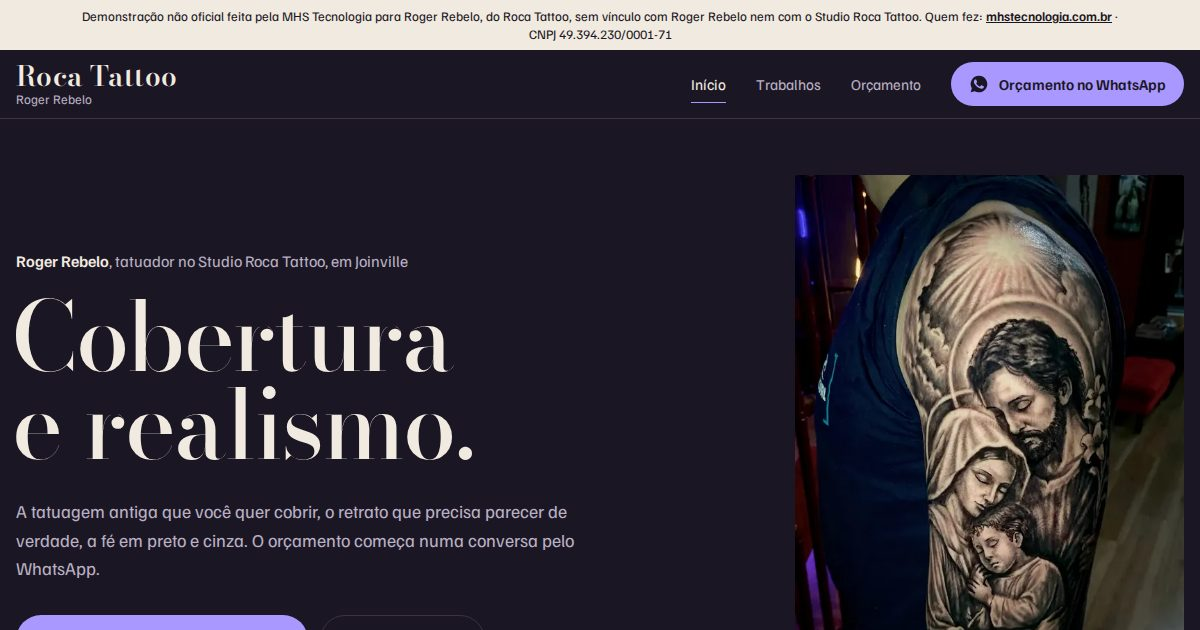
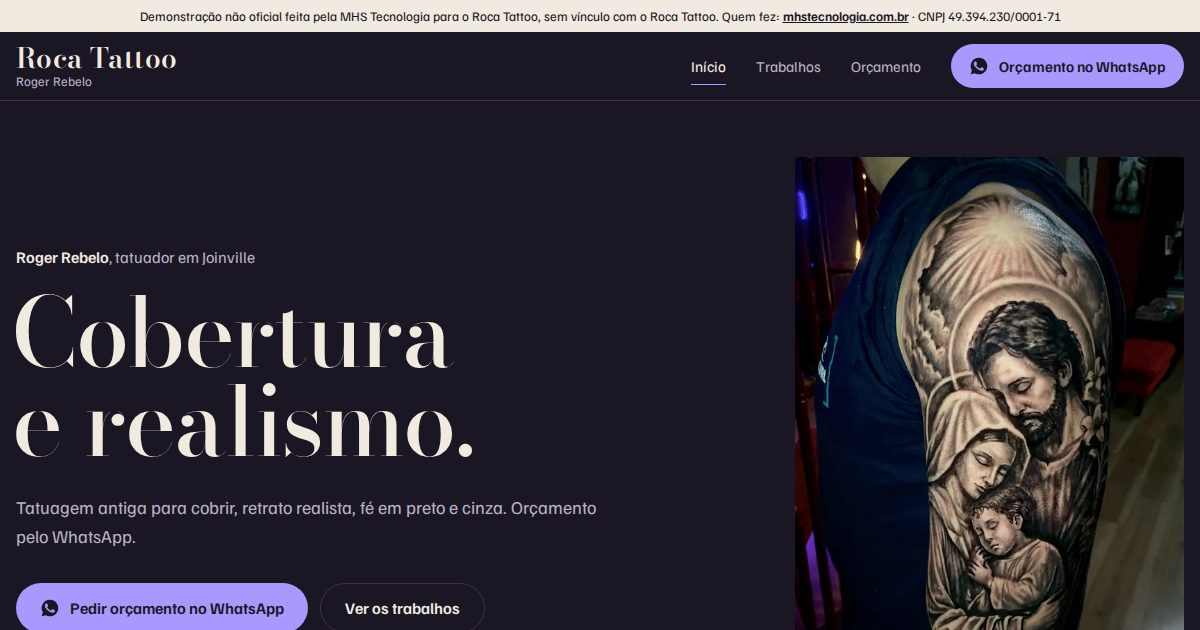
Previews: 108 ativos

diff --git a/roca-tattoo-joinville-sc/trabalhos.html b/roca-tattoo-joinville-sc/trabalhos.html
@@ -13,7 +13,7 @@
 </head>
 <body>
 <a class="salto" href="#conteudo">Pular para o conteúdo</a>
-<div class="aviso" role="note">Demonstração não oficial feita pela MHS Tecnologia para Roger Rebelo, do Roca Tattoo, sem vínculo com Roger Rebelo nem com o Studio Roca Tattoo. Quem fez: <a href="https://mhstecnologia.com.br/pt">mhstecnologia.com.br</a> · <span class="nq">CNPJ 49.394.230/0001-71</span></div>
+<div class="aviso" role="note">Demonstração não oficial feita pela MHS Tecnologia para o Roca Tattoo, sem vínculo com o Roca Tattoo. Quem fez: <a href="https://mhstecnologia.com.br/pt">mhstecnologia.com.br</a> · <span class="nq">CNPJ 49.394.230/0001-71</span></div>
 <header class="topo">
   <div class="caixa nav">
     <a class="marca" href="index.html"><b>Roca Tattoo</b><span>Roger Rebelo</span></a>
@@ -27,24 +27,24 @@
 <section class="topo-pag">
   <div class="caixa">
     <h1>Trabalhos</h1>
-    <p>Tatuagens recentes do Roger, do realismo em preto e cinza às cores e ao traço fino. Toque numa foto para ver maior.</p>
+    <p>Tatuagens recentes do Roger, do realismo em preto e cinza às mandalas e ao traço fino. Toque numa foto para ver maior.</p>
   </div>
 </section>
 <section aria-label="Fotos dos trabalhos">
   <div class="caixa galeria">
-    <button class="foto" type="button" data-grande="img/sagrada-1400.webp" data-legenda="Sagrada Família. Realismo em preto e cinza, braço."><img src="img/sagrada-1000.webp" srcset="img/sagrada-600.webp 600w, img/sagrada-1000.webp 1000w, img/sagrada-1400.webp 1400w" sizes="(min-width: 1240px) 600px, (min-width: 900px) 48vw, calc(100vw - 32px)" width="600" height="800" alt="Tatuagem realista em preto e cinza da Sagrada Família no braço" loading="lazy" decoding="async"><span class="leg"><b>Sagrada Família</b><span>Realismo em preto e cinza, braço</span></span></button>
-    <button class="foto" type="button" data-grande="img/sao-miguel-1400.webp" data-legenda="Anjo e catedral. Realismo em preto e cinza, antebraço fechado."><img src="img/sao-miguel-1000.webp" srcset="img/sao-miguel-600.webp 600w, img/sao-miguel-1000.webp 1000w, img/sao-miguel-1400.webp 1400w" sizes="(min-width: 1240px) 600px, (min-width: 900px) 48vw, calc(100vw - 32px)" width="600" height="800" alt="Antebraço fechado com anjo, vitral de catedral e cruz em preto e cinza" loading="lazy" decoding="async"><span class="leg"><b>Anjo e catedral</b><span>Realismo em preto e cinza, antebraço fechado</span></span></button>
-    <button class="foto" type="button" data-grande="img/formula-1400.webp" data-legenda="Fórmula 1 ao pôr do sol. Realismo colorido, panturrilha."><img src="img/formula-1000.webp" srcset="img/formula-600.webp 600w, img/formula-1000.webp 1000w, img/formula-1400.webp 1400w" sizes="(min-width: 1240px) 600px, (min-width: 900px) 48vw, calc(100vw - 32px)" width="600" height="800" alt="Tatuagem colorida de um carro de Fórmula 1 vermelho sob um céu laranja e roxo" loading="lazy" decoding="async"><span class="leg"><b>Fórmula 1 ao pôr do sol</b><span>Realismo colorido, panturrilha</span></span></button>
-    <button class="foto" type="button" data-grande="img/mandala-1400.webp" data-legenda="Mandalas. Pontilhismo e geometria, braço e ombro."><img src="img/mandala-1000.webp" srcset="img/mandala-600.webp 600w, img/mandala-1000.webp 1000w, img/mandala-1400.webp 1400w" sizes="(min-width: 1240px) 600px, (min-width: 900px) 48vw, calc(100vw - 32px)" width="600" height="800" alt="Braço e ombro com mandalas e padrões geométricos em pontilhismo" loading="lazy" decoding="async"><span class="leg"><b>Mandalas</b><span>Pontilhismo e geometria, braço e ombro</span></span></button>
-    <button class="foto" type="button" data-grande="img/delicada-1400.webp" data-legenda="Medalha e santa. Traço fino, antebraço."><img src="img/delicada-1000.webp" srcset="img/delicada-600.webp 600w, img/delicada-1000.webp 1000w, img/delicada-1400.webp 1400w" sizes="(min-width: 1240px) 600px, (min-width: 900px) 48vw, calc(100vw - 32px)" width="600" height="800" alt="Tatuagem em traço fino com medalha de São Bento, santa e flores no antebraço" loading="lazy" decoding="async"><span class="leg"><b>Medalha e santa</b><span>Traço fino, antebraço</span></span></button>
-    <button class="foto" type="button" data-grande="img/decalque-1400.webp" data-legenda="Retrato de cachorro. O decalque na pele, ao lado do desenho."><img src="img/decalque-1000.webp" srcset="img/decalque-600.webp 600w, img/decalque-1000.webp 1000w, img/decalque-1400.webp 1400w" sizes="(min-width: 1240px) 600px, (min-width: 900px) 48vw, calc(100vw - 32px)" width="600" height="800" alt="Decalque roxo de um retrato de cachorro no antebraço, ao lado do desenho impresso" loading="lazy" decoding="async"><span class="leg"><b>Retrato de cachorro</b><span>O decalque na pele, ao lado do desenho</span></span></button>
+    <button class="foto dupla" type="button" data-grande="img/sagrada-1400.webp" data-legenda="Sagrada Família. Realismo em preto e cinza, braço."><img src="img/sagrada-1000.webp" srcset="img/sagrada-600.webp 600w, img/sagrada-1000.webp 1000w, img/sagrada-1400.webp 1400w" sizes="(min-width: 1240px) 600px, (min-width: 900px) 48vw, calc(100vw - 32px)" width="600" height="800" alt="Tatuagem realista em preto e cinza da Sagrada Família no braço" loading="lazy" decoding="async"><span class="leg"><b>Sagrada Família</b><span>Realismo em preto e cinza, braço</span></span></button>
+    <button class="foto dupla" type="button" data-grande="img/sao-miguel-1400.webp" data-legenda="Anjo e catedral. Realismo em preto e cinza, antebraço fechado."><img src="img/sao-miguel-1000.webp" srcset="img/sao-miguel-600.webp 600w, img/sao-miguel-1000.webp 1000w, img/sao-miguel-1400.webp 1400w" sizes="(min-width: 1240px) 600px, (min-width: 900px) 48vw, calc(100vw - 32px)" width="600" height="800" alt="Antebraço fechado com anjo, vitral de catedral e cruz em preto e cinza" loading="lazy" decoding="async"><span class="leg"><b>Anjo e catedral</b><span>Realismo em preto e cinza, antebraço fechado</span></span></button>
+    <button class="foto" type="button" data-grande="img/mandala-1400.webp" data-legenda="Mandalas. Pontilhismo e geometria, braço e ombro."><img src="img/mandala-1000.webp" srcset="img/mandala-600.webp 600w, img/mandala-1000.webp 1000w, img/mandala-1400.webp 1400w" sizes="(min-width: 1240px) 387px, (min-width: 900px) 31vw, calc(100vw - 32px)" width="600" height="800" alt="Braço e ombro com mandalas e padrões geométricos em pontilhismo" loading="lazy" decoding="async"><span class="leg"><b>Mandalas</b><span>Pontilhismo e geometria, braço e ombro</span></span></button>
+    <button class="foto" type="button" data-grande="img/delicada-1400.webp" data-legenda="Medalha e santa. Traço fino, antebraço."><img src="img/delicada-1000.webp" srcset="img/delicada-600.webp 600w, img/delicada-1000.webp 1000w, img/delicada-1400.webp 1400w" sizes="(min-width: 1240px) 387px, (min-width: 900px) 31vw, calc(100vw - 32px)" width="600" height="800" alt="Tatuagem em traço fino com medalha de São Bento, santa e flores no antebraço" loading="lazy" decoding="async"><span class="leg"><b>Medalha e santa</b><span>Traço fino, antebraço</span></span></button>
+    <button class="foto" type="button" data-grande="img/decalque-1400.webp" data-legenda="Retrato de cachorro. O decalque do retrato na pele, ao lado do desenho."><img src="img/decalque-1000.webp" srcset="img/decalque-600.webp 600w, img/decalque-1000.webp 1000w, img/decalque-1400.webp 1400w" sizes="(min-width: 1240px) 387px, (min-width: 900px) 31vw, calc(100vw - 32px)" width="600" height="800" alt="Decalque roxo de um retrato de cachorro no antebraço, ao lado do desenho impresso" loading="lazy" decoding="async"><span class="leg"><b>Retrato de cachorro</b><span>O decalque do retrato na pele, ao lado do desenho</span></span></button>
   </div>
 </section>
 <section class="cobrir" aria-labelledby="t-cob">
   <div class="caixa">
     <h2 id="t-cob">Gostou de algum estilo?</h2>
     <div>
-      <p>Mande a sua ideia ou uma referência pelo WhatsApp. A agenda está aberta para novembro e dezembro.</p>
+      <p>Mande a sua ideia ou uma referência pelo WhatsApp.</p>
+      <p class="agenda">Agenda novembro e dezembro</p>
       <a class="btn btn-p" href="https://wa.me/5547997858623?text=Ol%C3%A1%2C%20Roger!%20Vi%20o%20site%20e%20tenho%20uma%20ideia%20de%20tatuagem%20pra%20te%20mostrar."><svg class="ico" viewBox="0 0 24 24" aria-hidden="true"><path fill="currentColor" d="M12 2a10 10 0 0 0-8.6 15.1L2 22l5-1.3A10 10 0 1 0 12 2Zm5.7 14.2c-.2.7-1.4 1.3-2 1.4-.5.1-1.2.1-1.9-.1-.4-.1-1-.3-1.7-.6-3-1.3-4.9-4.3-5.1-4.5-.1-.2-1.2-1.6-1.2-3 0-1.4.8-2.1 1-2.4.3-.3.6-.4.8-.4h.6c.2 0 .4 0 .6.5l.8 2c.1.2.1.4 0 .6l-.3.5-.4.5c-.1.1-.3.3-.1.6.2.3.8 1.3 1.7 2.1 1.2 1 2.1 1.4 2.4 1.5.3.1.5.1.7-.1l.9-1.1c.2-.3.4-.2.7-.1l1.9.9c.3.1.5.2.6.3.1.2.1.8-.1 1.4Z"/></svg>Mandar minha ideia</a>
     </div>
   </div>
@@ -62,7 +62,7 @@
       <p><a href="tel:+5547997858623">Ligar (47) 99785-8623</a></p>
     </div>
     <div class="legal">
-      <p>Demonstração não oficial feita pela MHS Tecnologia. Sem vínculo com Roger Rebelo nem com o Studio Roca Tattoo e sem aprovação deles. Textos e fotos vêm do que Roger Rebelo publica no Instagram.</p>
+      <p>Demonstração não oficial feita pela MHS Tecnologia. Sem vínculo com o Roca Tattoo e sem aprovação dele. Textos e fotos vêm do que o Roca Tattoo publica no Instagram.</p>
       <p>Removida a pedido: <a href="mailto:contato@mhstecnologia.com.br">contato@mhstecnologia.com.br</a></p>
     </div>
   </div>

diff --git a/roca-tattoo-joinville-sc/index.html b/roca-tattoo-joinville-sc/index.html
@@ -22,7 +22,7 @@
 </head>
 <body>
 <a class="salto" href="#conteudo">Pular para o conteúdo</a>
-<div class="aviso" role="note">Demonstração não oficial feita pela MHS Tecnologia para Roger Rebelo, do Roca Tattoo, sem vínculo com Roger Rebelo nem com o Studio Roca Tattoo. Quem fez: <a href="https://mhstecnologia.com.br/pt">mhstecnologia.com.br</a> · <span class="nq">CNPJ 49.394.230/0001-71</span></div>
+<div class="aviso" role="note">Demonstração não oficial feita pela MHS Tecnologia para o Roca Tattoo, sem vínculo com o Roca Tattoo. Quem fez: <a href="https://mhstecnologia.com.br/pt">mhstecnologia.com.br</a> · <span class="nq">CNPJ 49.394.230/0001-71</span></div>
 <header class="topo">
   <div class="caixa nav">
     <a class="marca" href="index.html"><b>Roca Tattoo</b><span>Roger Rebelo</span></a>
@@ -36,9 +36,9 @@
 <section class="hero">
   <div class="caixa">
     <div>
-      <p class="quem"><b>Roger Rebelo</b>, tatuador no Studio Roca Tattoo, em Joinville</p>
+      <p class="quem"><b>Roger Rebelo</b>, tatuador em Joinville</p>
       <h1>Cobertura e realismo.</h1>
-      <p class="sub">A tatuagem antiga que você quer cobrir, o retrato que precisa parecer de verdade, a fé em preto e cinza. O orçamento começa numa conversa pelo WhatsApp.</p>
+      <p class="sub">Tatuagem antiga para cobrir, retrato realista, fé em preto e cinza. Orçamento pelo WhatsApp.</p>
       <div class="acoes" id="cta">
         <a class="btn btn-p" href="https://wa.me/5547997858623?text=Ol%C3%A1%2C%20Roger!%20Vi%20o%20site%20e%20quero%20fazer%20um%20or%C3%A7amento%20de%20tatuagem."><svg class="ico" viewBox="0 0 24 24" aria-hidden="true"><path fill="currentColor" d="M12 2a10 10 0 0 0-8.6 15.1L2 22l5-1.3A10 10 0 1 0 12 2Zm5.7 14.2c-.2.7-1.4 1.3-2 1.4-.5.1-1.2.1-1.9-.1-.4-.1-1-.3-1.7-.6-3-1.3-4.9-4.3-5.1-4.5-.1-.2-1.2-1.6-1.2-3 0-1.4.8-2.1 1-2.4.3-.3.6-.4.8-.4h.6c.2 0 .4 0 .6.5l.8 2c.1.2.1.4 0 .6l-.3.5-.4.5c-.1.1-.3.3-.1.6.2.3.8 1.3 1.7 2.1 1.2 1 2.1 1.4 2.4 1.5.3.1.5.1.7-.1l.9-1.1c.2-.3.4-.2.7-.1l1.9.9c.3.1.5.2.6.3.1.2.1.8-.1 1.4Z"/></svg>Pedir orçamento no WhatsApp</a>
         <a class="btn btn-s" href="trabalhos.html">Ver os trabalhos</a>
@@ -61,27 +61,16 @@
   <div class="caixa">
     <div class="cab">
       <h2 id="t-obras">O trabalho, em tamanho grande</h2>
-      <p>Braços fechados, cores fortes e traço fino. <a class="leia" href="trabalhos.html">Ver todos os trabalhos</a></p>
+      <p>Braços fechados, mandalas e traço fino. <a class="leia" href="trabalhos.html">Ver todos os trabalhos</a></p>
     </div>
     <div class="obras">
       <figure class="peca larga"><img src="img/sao-miguel-1000.webp" srcset="img/sao-miguel-600.webp 600w, img/sao-miguel-1000.webp 1000w, img/sao-miguel-1400.webp 1400w" sizes="(min-width: 1240px) 680px, (min-width: 900px) 55vw, calc(100vw - 32px)" width="600" height="800" alt="Antebraço fechado com anjo, vitral de catedral e cruz em preto e cinza" loading="lazy" decoding="async"><figcaption>Anjo e catedral</figcaption></figure>
-      <figure class="peca estreita"><img src="img/formula-1000.webp" srcset="img/formula-600.webp 600w, img/formula-1000.webp 1000w, img/formula-1400.webp 1400w" sizes="(min-width: 1240px) 480px, (min-width: 900px) 39vw, calc(100vw - 32px)" width="600" height="800" alt="Tatuagem colorida de um carro de Fórmula 1 vermelho sob um céu laranja e roxo" loading="lazy" decoding="async"><figcaption>Fórmula 1 ao pôr do sol</figcaption></figure>
+      <figure class="peca estreita"><img src="img/mandala-1000.webp" srcset="img/mandala-600.webp 600w, img/mandala-1000.webp 1000w, img/mandala-1400.webp 1400w" sizes="(min-width: 1240px) 480px, (min-width: 900px) 39vw, calc(100vw - 32px)" width="600" height="800" alt="Braço e ombro com mandalas e padrões geométricos em pontilhismo" loading="lazy" decoding="async"><figcaption>Mandalas</figcaption></figure>
     </div>
     <div class="obras inv">
-      <figure class="peca estreita"><img src="img/mandala-1000.webp" srcset="img/mandala-600.webp 600w, img/mandala-1000.webp 1000w, img/mandala-1400.webp 1400w" sizes="(min-width: 1240px) 480px, (min-width: 900px) 39vw, calc(100vw - 32px)" width="600" height="800" alt="Braço e ombro com mandalas e padrões geométricos em pontilhismo" loading="lazy" decoding="async"><figcaption>Mandalas</figcaption></figure>
-      <figure class="peca larga"><img src="img/delicada-1000.webp" srcset="img/delicada-600.webp 600w, img/delicada-1000.webp 1000w, img/delicada-1400.webp 1400w" sizes="(min-width: 1240px) 680px, (min-width: 900px) 55vw, calc(100vw - 32px)" width="600" height="800" alt="Tatuagem em traço fino com medalha de São Bento, santa e flores no antebraço" loading="lazy" decoding="async"><figcaption>Medalha e santa</figcaption></figure>
+      <figure class="peca estreita"><img src="img/delicada-1000.webp" srcset="img/delicada-600.webp 600w, img/delicada-1000.webp 1000w, img/delicada-1400.webp 1400w" sizes="(min-width: 1240px) 480px, (min-width: 900px) 39vw, calc(100vw - 32px)" width="600" height="800" alt="Tatuagem em traço fino com medalha de São Bento, santa e flores no antebraço" loading="lazy" decoding="async"><figcaption>Medalha e santa</figcaption></figure>
+      <figure class="peca larga"><img src="img/decalque-1000.webp" srcset="img/decalque-600.webp 600w, img/decalque-1000.webp 1000w, img/decalque-1400.webp 1400w" sizes="(min-width: 1240px) 680px, (min-width: 900px) 55vw, calc(100vw - 32px)" width="600" height="800" alt="Decalque roxo de um retrato de cachorro no antebraço, ao lado do desenho impresso" loading="lazy" decoding="async"><figcaption>O decalque do retrato na pele, ao lado do desenho</figcaption></figure>
     </div>
-  </div>
-</section>
-
-<section class="secao decalque" aria-labelledby="t-dec">
-  <div class="caixa">
-    <div class="texto">
-      <h2 id="t-dec">Do desenho à pele</h2>
-      <p>No realismo, o retrato é desenhado primeiro. O desenho vira decalque, vai para a pele e só então a agulha entra.</p>
-      <figure class="peca"><img src="img/mesa-1000.webp" srcset="img/mesa-600.webp 600w, img/mesa-1000.webp 1000w, img/mesa-1400.webp 1400w" sizes="(min-width: 1240px) 480px, (min-width: 900px) 39vw, calc(100vw - 32px)" width="600" height="690" alt="Roger Rebelo tatuando um braço colorido, com os potes de tinta à frente" loading="lazy" decoding="async"><figcaption>Roger na bancada</figcaption></figure>
-    </div>
-    <figure class="peca"><img src="img/decalque-1000.webp" srcset="img/decalque-600.webp 600w, img/decalque-1000.webp 1000w, img/decalque-1400.webp 1400w" sizes="(min-width: 1240px) 680px, (min-width: 900px) 55vw, calc(100vw - 32px)" width="600" height="800" alt="Decalque roxo de um retrato de cachorro no antebraço, ao lado do desenho impresso" loading="lazy" decoding="async"><figcaption>Retrato de cachorro: o decalque na pele, ao lado do desenho</figcaption></figure>
   </div>
 </section>
 
@@ -89,7 +78,7 @@
   <div class="caixa">
     <h2 id="t-cob">Tem uma tatuagem que você quer cobrir?</h2>
     <div>
-      <p>Mande pelo WhatsApp uma foto de como ela está hoje e conte o que você gostaria no lugar. É por ela que o Roger começa o orçamento de uma cobertura.</p>
+      <p>Mande pelo WhatsApp uma foto de como ela está hoje e conte o que você gostaria no lugar.</p>
       <a class="btn btn-p" href="https://wa.me/5547997858623?text=Ol%C3%A1%2C%20Roger!%20Vi%20o%20site%20e%20quero%20cobrir%20uma%20tatuagem%20antiga.%20Vou%20te%20mandar%20uma%20foto%20dela."><svg class="ico" viewBox="0 0 24 24" aria-hidden="true"><path fill="currentColor" d="M12 2a10 10 0 0 0-8.6 15.1L2 22l5-1.3A10 10 0 1 0 12 2Zm5.7 14.2c-.2.7-1.4 1.3-2 1.4-.5.1-1.2.1-1.9-.1-.4-.1-1-.3-1.7-.6-3-1.3-4.9-4.3-5.1-4.5-.1-.2-1.2-1.6-1.2-3 0-1.4.8-2.1 1-2.4.3-.3.6-.4.8-.4h.6c.2 0 .4 0 .6.5l.8 2c.1.2.1.4 0 .6l-.3.5-.4.5c-.1.1-.3.3-.1.6.2.3.8 1.3 1.7 2.1 1.2 1 2.1 1.4 2.4 1.5.3.1.5.1.7-.1l.9-1.1c.2-.3.4-.2.7-.1l1.9.9c.3.1.5.2.6.3.1.2.1.8-.1 1.4Z"/></svg>Mandar a foto pelo WhatsApp</a>
     </div>
   </div>
@@ -107,7 +96,7 @@
       <p><a href="tel:+5547997858623">Ligar (47) 99785-8623</a></p>
     </div>
     <div class="legal">
-      <p>Demonstração não oficial feita pela MHS Tecnologia. Sem vínculo com Roger Rebelo nem com o Studio Roca Tattoo e sem aprovação deles. Textos e fotos vêm do que Roger Rebelo publica no Instagram.</p>
+      <p>Demonstração não oficial feita pela MHS Tecnologia. Sem vínculo com o Roca Tattoo e sem aprovação dele. Textos e fotos vêm do que o Roca Tattoo publica no Instagram.</p>
       <p>Removida a pedido: <a href="mailto:contato@mhstecnologia.com.br">contato@mhstecnologia.com.br</a></p>
     </div>
   </div>

diff --git a/roca-tattoo-joinville-sc/estilo.css b/roca-tattoo-joinville-sc/estilo.css
@@ -63,7 +63,8 @@ h1,h2,h3{font-family:var(--serif);font-weight:500;margin:0;text-wrap:balance}
 .agenda::before{content:"";width:9px;height:9px;border-radius:50%;background:var(--decalque);flex:none}
 .palco{position:relative;margin:0}
 .palco img{width:100%;border-radius:2px}
-.palco .tela{position:relative;overflow:hidden;border-radius:2px}
+.palco .tela{position:relative;overflow:hidden;border-radius:2px;aspect-ratio:560/826}
+.palco .tela img{height:100%;object-fit:cover}
 .palco .tela::after{content:"";position:absolute;inset:0;background:var(--decalque);mix-blend-mode:color;opacity:0;pointer-events:none}
 .palco figcaption,.peca figcaption{font:italic 500 1.0625rem/1.35 var(--serif);color:var(--cinza);margin-top:12px}
 @media (prefers-reduced-motion:no-preference){
@@ -87,17 +88,14 @@ h1,h2,h3{font-family:var(--serif);font-weight:500;margin:0;text-wrap:balance}
 .peca img{width:100%;border-radius:2px}
 
 /* stencil story */
-.decalque .caixa{display:grid;grid-template-columns:5fr 7fr;gap:40px 56px;align-items:start}
-.decalque .texto{max-width:30em}
-.decalque .texto .peca{margin-top:48px}
-.decalque h2{font-size:clamp(2.4rem,4.6vw,4.25rem);line-height:1}
-.decalque p{color:var(--cinza);margin:20px 0 0}
 
 /* cover-up band */
 .cobrir{background:var(--osso);color:var(--tinta);padding:96px 0}
 .cobrir .caixa{display:grid;grid-template-columns:7fr 5fr;gap:48px;align-items:end}
 .cobrir h2{font-size:clamp(2.6rem,6vw,5.5rem);line-height:1.1}
 .cobrir p{font-size:1.125rem;margin:0 0 24px;color:#4a4256}
+.cobrir .agenda{color:var(--tinta);margin:-8px 0 24px}
+.cobrir .agenda::before{background:var(--tinta)}
 .cobrir .btn-p{background:var(--tinta);color:var(--osso)}
 .cobrir .btn-p:hover{background:#3b3249}
 
@@ -105,7 +103,9 @@ h1,h2,h3{font-family:var(--serif);font-weight:500;margin:0;text-wrap:balance}
 .topo-pag{padding:64px 0 40px}
 .topo-pag h1{font-size:clamp(3rem,8vw,7rem);line-height:.9;letter-spacing:-.01em}
 .topo-pag p{max-width:36em;color:var(--cinza);font-size:1.125rem;margin:22px 0 0}
-.galeria{display:grid;grid-template-columns:1fr 1fr;gap:48px 40px;padding-bottom:96px}
+.galeria{display:grid;grid-template-columns:repeat(6,minmax(0,1fr));gap:48px 40px;padding-bottom:96px}
+.galeria .foto{grid-column:span 2}
+.galeria .foto.dupla{grid-column:span 3}
 .foto{display:block;width:100%;padding:0;border:0;background:none;color:inherit;cursor:zoom-in;text-align:left;font:inherit}
 .foto img{width:100%;border-radius:2px}
 .foto:hover img{filter:brightness(1.06)}
@@ -150,7 +150,9 @@ h1,h2,h3{font-family:var(--serif);font-weight:500;margin:0;text-wrap:balance}
   .menu a{padding:14px 0;text-decoration:none;font-size:1.0625rem;border-bottom:1px solid var(--linha)}
   .menu a[aria-current]{color:var(--decalque)}
   .menu .btn{margin-top:16px;border-bottom:0}
-  .hero{padding:26px 0 48px}
+  .hero{padding:20px 0 48px}
+  .palco .tela{aspect-ratio:800/829}
+  .galeria .foto,.galeria .foto.dupla{grid-column:auto}
   .hero .caixa{grid-template-columns:1fr;gap:28px}
   .quem{margin-bottom:12px;font-size:.9375rem}
   .sub{margin-top:16px;font-size:1rem}
@@ -160,12 +162,11 @@ h1,h2,h3{font-family:var(--serif);font-weight:500;margin:0;text-wrap:balance}
   .secao,.cobrir{padding:64px 0}
   .cab{display:block;margin-bottom:28px}
   .cab p{margin-top:14px}
-  .obras,.obras.inv,.decalque .caixa,.cobrir .caixa,.galeria,.ficha,.rodape .caixa{grid-template-columns:1fr}
+  .obras,.obras.inv,.cobrir .caixa,.galeria,.ficha,.rodape .caixa{grid-template-columns:1fr}
   .obras .larga img,.obras .estreita img{aspect-ratio:auto}
   .acoes .btn-s{flex:0 1 auto;min-height:46px}
   .obras,.galeria{gap:36px}
   .obras.inv{margin-top:36px}
-  .decalque .caixa{gap:28px}
   .pedidos > li{grid-template-columns:1fr;gap:18px;padding:36px 0}
   .pedidos .btn{justify-self:stretch}
   .ficha{gap:28px;padding-bottom:64px}

diff --git a/roca-tattoo-joinville-sc/orcamento.html b/roca-tattoo-joinville-sc/orcamento.html
@@ -13,7 +13,7 @@
 </head>
 <body>
 <a class="salto" href="#conteudo">Pular para o conteúdo</a>
-<div class="aviso" role="note">Demonstração não oficial feita pela MHS Tecnologia para Roger Rebelo, do Roca Tattoo, sem vínculo com Roger Rebelo nem com o Studio Roca Tattoo. Quem fez: <a href="https://mhstecnologia.com.br/pt">mhstecnologia.com.br</a> · <span class="nq">CNPJ 49.394.230/0001-71</span></div>
+<div class="aviso" role="note">Demonstração não oficial feita pela MHS Tecnologia para o Roca Tattoo, sem vínculo com o Roca Tattoo. Quem fez: <a href="https://mhstecnologia.com.br/pt">mhstecnologia.com.br</a> · <span class="nq">CNPJ 49.394.230/0001-71</span></div>
 <header class="topo">
   <div class="caixa nav">
     <a class="marca" href="index.html"><b>Roca Tattoo</b><span>Roger Rebelo</span></a>
@@ -71,12 +71,11 @@
       <p><a href="tel:+5547997858623">Ligar (47) 99785-8623</a></p>
     </div>
     <div class="legal">
-      <p>Demonstração não oficial feita pela MHS Tecnologia. Sem vínculo com Roger Rebelo nem com o Studio Roca Tattoo e sem aprovação deles. Textos e fotos vêm do que Roger Rebelo publica no Instagram.</p>
+      <p>Demonstração não oficial feita pela MHS Tecnologia. Sem vínculo com o Roca Tattoo e sem aprovação dele. Textos e fotos vêm do que o Roca Tattoo publica no Instagram.</p>
       <p>Removida a pedido: <a href="mailto:contato@mhstecnologia.com.br">contato@mhstecnologia.com.br</a></p>
     </div>
   </div>
 </footer>
-<a class="btn btn-p fixo" href="https://wa.me/5547997858623?text=Ol%C3%A1%2C%20Roger!%20Vi%20o%20site%20e%20quero%20fazer%20um%20or%C3%A7amento%20de%20tatuagem." tabindex="-1"><svg class="ico" viewBox="0 0 24 24" aria-hidden="true"><path fill="currentColor" d="M12 2a10 10 0 0 0-8.6 15.1L2 22l5-1.3A10 10 0 1 0 12 2Zm5.7 14.2c-.2.7-1.4 1.3-2 1.4-.5.1-1.2.1-1.9-.1-.4-.1-1-.3-1.7-.6-3-1.3-4.9-4.3-5.1-4.5-.1-.2-1.2-1.6-1.2-3 0-1.4.8-2.1 1-2.4.3-.3.6-.4.8-.4h.6c.2 0 .4 0 .6.5l.8 2c.1.2.1.4 0 .6l-.3.5-.4.5c-.1.1-.3.3-.1.6.2.3.8 1.3 1.7 2.1 1.2 1 2.1 1.4 2.4 1.5.3.1.5.1.7-.1l.9-1.1c.2-.3.4-.2.7-.1l1.9.9c.3.1.5.2.6.3.1.2.1.8-.1 1.4Z"/></svg>Orçamento no WhatsApp</a>
 <script src="site.js" defer></script>
 </body>
 </html>

diff --git a/roca-tattoo-joinville-sc/site.js b/roca-tattoo-joinville-sc/site.js
@@ -20,10 +20,20 @@
   // Início: o botão do herói. Páginas internas: o primeiro botão da página.
   var cta = document.getElementById('cta') || document.querySelector('main .btn')
   if (fixo && cta && 'IntersectionObserver' in window) {
+    var passou = false
+    var cobertos = new Set()
+    var atualiza = function () { fixo.classList.toggle('ver-fixo', passou && cobertos.size === 0) }
     new IntersectionObserver(function (es) {
       var e = es[0]
-      fixo.classList.toggle('ver-fixo', !e.isIntersecting && e.boundingClientRect.top < 0)
+      passou = !e.isIntersecting && e.boundingClientRect.top < 0
+      atualiza()
     }).observe(cta)
+    // Some o botão fixo quando ele cobriria uma legenda, outro botão ou o rodapé.
+    var faixa = new IntersectionObserver(function (es) {
+      es.forEach(function (e) { if (e.isIntersecting) cobertos.add(e.target); else cobertos.delete(e.target) })
+      atualiza()
+    }, { rootMargin: '-' + Math.max(window.innerHeight - 90, 0) + 'px 0px 0px 0px' })
+    document.querySelectorAll('figcaption, .leg, .rodape, main .btn').forEach(function (el) { faixa.observe(el) })
   }
 
   var lb = document.querySelector('.lb')
